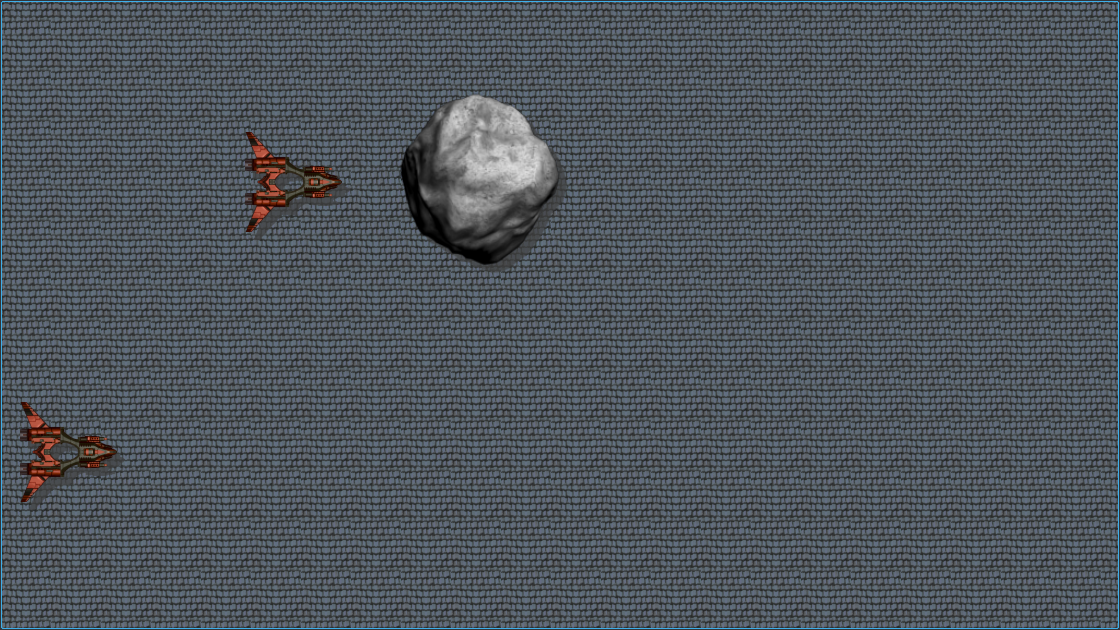
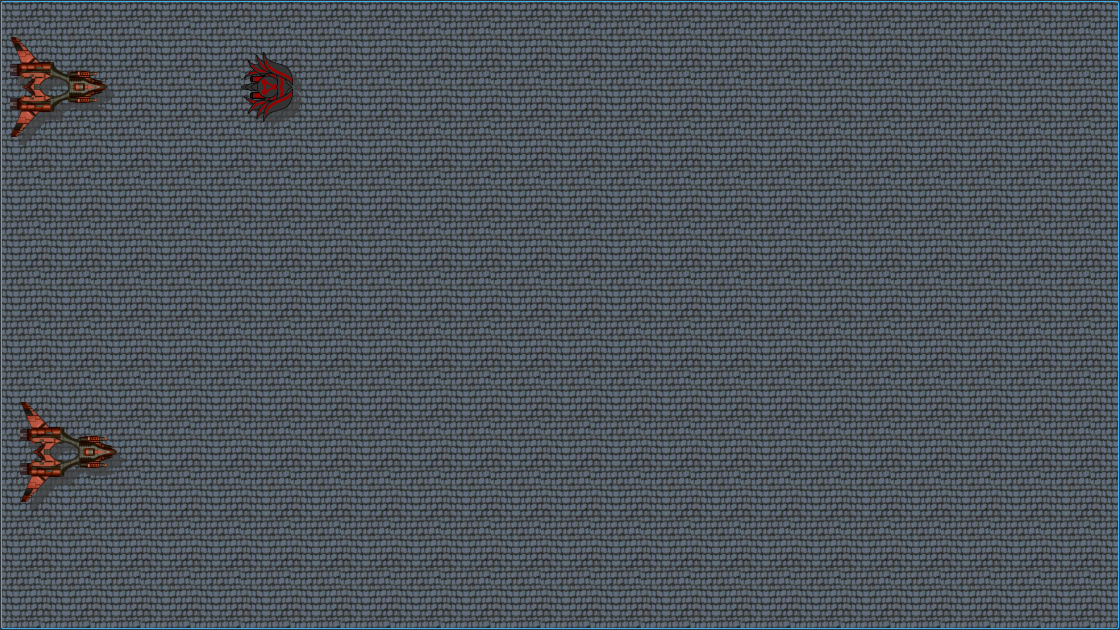
Project Update

diff --git a/Sources/Source Files/Game Objects/MyShipShield.cpp b/Sources/Source Files/Game Objects/MyShipShield.cpp
@@ -27,7 +27,7 @@ void MyShipShield::cllsn_dtctn() {
 						dynamic_cast<MyAsteroid *>(i)->x() + (dynamic_cast<MyAsteroid *>(i)->pixmap().width() / 2) -
 						(MyRes::expln_astrd_size.width() / 2),
 						dynamic_cast<MyAsteroid *>(i)->y() + (dynamic_cast<MyAsteroid *>(i)->pixmap().height() / 2) -
-						(MyRes::expln_astrd_size.height() / 2));
+								(MyRes::expln_astrd_size.height() / 2) + MyRes::expln_astrd_crrctn);
 				scene()->addItem(expln);
 				scene()->removeItem(i);
 			}
@@ -36,7 +36,7 @@ void MyShipShield::cllsn_dtctn() {
 				expln->setPos(dynamic_cast<MyBullet *>(i)->x() + (dynamic_cast<MyBullet *>(i)->pixmap().width() / 2) -
 				              (MyRes::expln_lsr_size.width() / 2),
 				              dynamic_cast<MyBullet *>(i)->y() + (dynamic_cast<MyBullet *>(i)->pixmap().height() / 2) -
-				              (MyRes::expln_lsr_size.height() / 2));
+						              (MyRes::expln_lsr_size.height() / 2) + MyRes::expln_lsr_crrctn);
 				scene()->addItem(expln);
 				scene()->removeItem(i);
 			}
@@ -47,7 +47,7 @@ void MyShipShield::cllsn_dtctn() {
 					              (MyRes::expln_aln_bg_size.width() / 2), dynamic_cast<MyAlien *>(i)->y() +
 					                                                      (dynamic_cast<MyAlien *>(i)->pixmap().height() /
 					                                                       2) -
-					                                                      (MyRes::expln_aln_bg_size.height() / 2));
+							(MyRes::expln_aln_bg_size.height() / 2) + MyRes::expln_aln_big_crrctn);
 					scene()->addItem(expln);
 				}
 				else {
@@ -56,7 +56,7 @@ void MyShipShield::cllsn_dtctn() {
 					              (MyRes::expln_aln_smll_size.width() / 2), dynamic_cast<MyAlien *>(i)->y() +
 					                                                        (dynamic_cast<MyAlien *>(i)->pixmap().height() /
 					                                                         2) -
-					                                                        (MyRes::expln_aln_smll_size.height() / 2));
+							(MyRes::expln_aln_smll_size.height() / 2) + MyRes::expln_aln_smll_crrctn);
 					scene()->addItem(expln);
 				}
 				dynamic_cast<MyAlien *>(i)->killTimer(dynamic_cast<MyAlien *>(i)->getTmr_id());

diff --git a/Sources/Source Files/Widgets/MyGame.cpp b/Sources/Source Files/Widgets/MyGame.cpp
@@ -29,12 +29,12 @@ MyGame::MyGame(QWidget *parent) :
 //	gscn->addItem(tmp7);
 //
 	tmp1 = new MyAlien();
-	tmp1->setPos(500, 50);
+	tmp1->setPos(1000, 50);
 	gscn->addItem(tmp1);
 
-	tmp2 = new MyAsteroid();
-	tmp2->setPos(1000, 50);
-	gscn->addItem(tmp2);
+//	tmp2 = new MyAsteroid();
+//	tmp2->setPos(1000, 50);
+//	gscn->addItem(tmp2);
 
 //	tmp6 = new MyStar();
 //	tmp6->setPos(200, 100);

diff --git a/Sources/Headers/Resources.h b/Sources/Headers/Resources.h
@@ -39,6 +39,10 @@ namespace MyRes {
     const int lsr_rtn_stp = 3;
     const int x_offset = 10;
     const int y_offset = 15;
+    const int expln_astrd_crrctn = 30;
+    const int expln_aln_big_crrctn = 30;
+    const int expln_aln_smll_crrctn = 15;
+    const int expln_lsr_crrctn = 7;
     extern const QSize lf_size;
     extern const QSize lsr_size;
     extern const QSize str_size;
